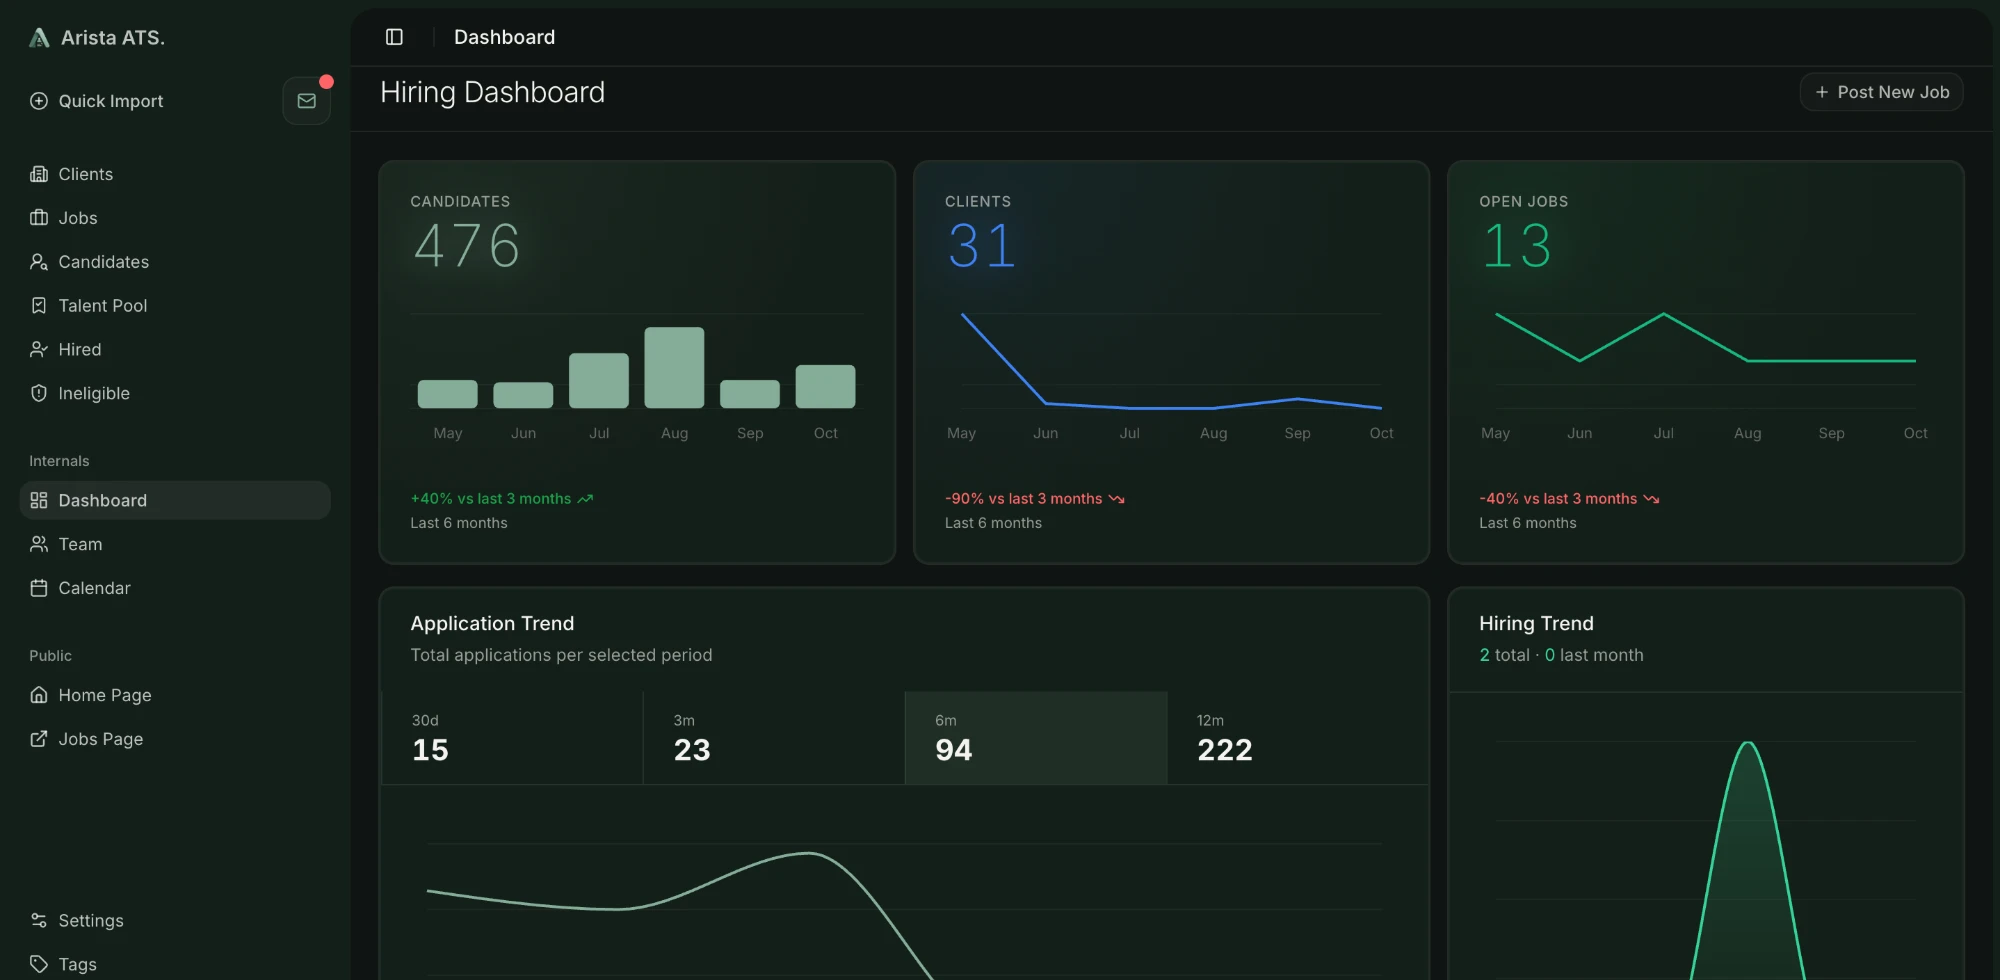
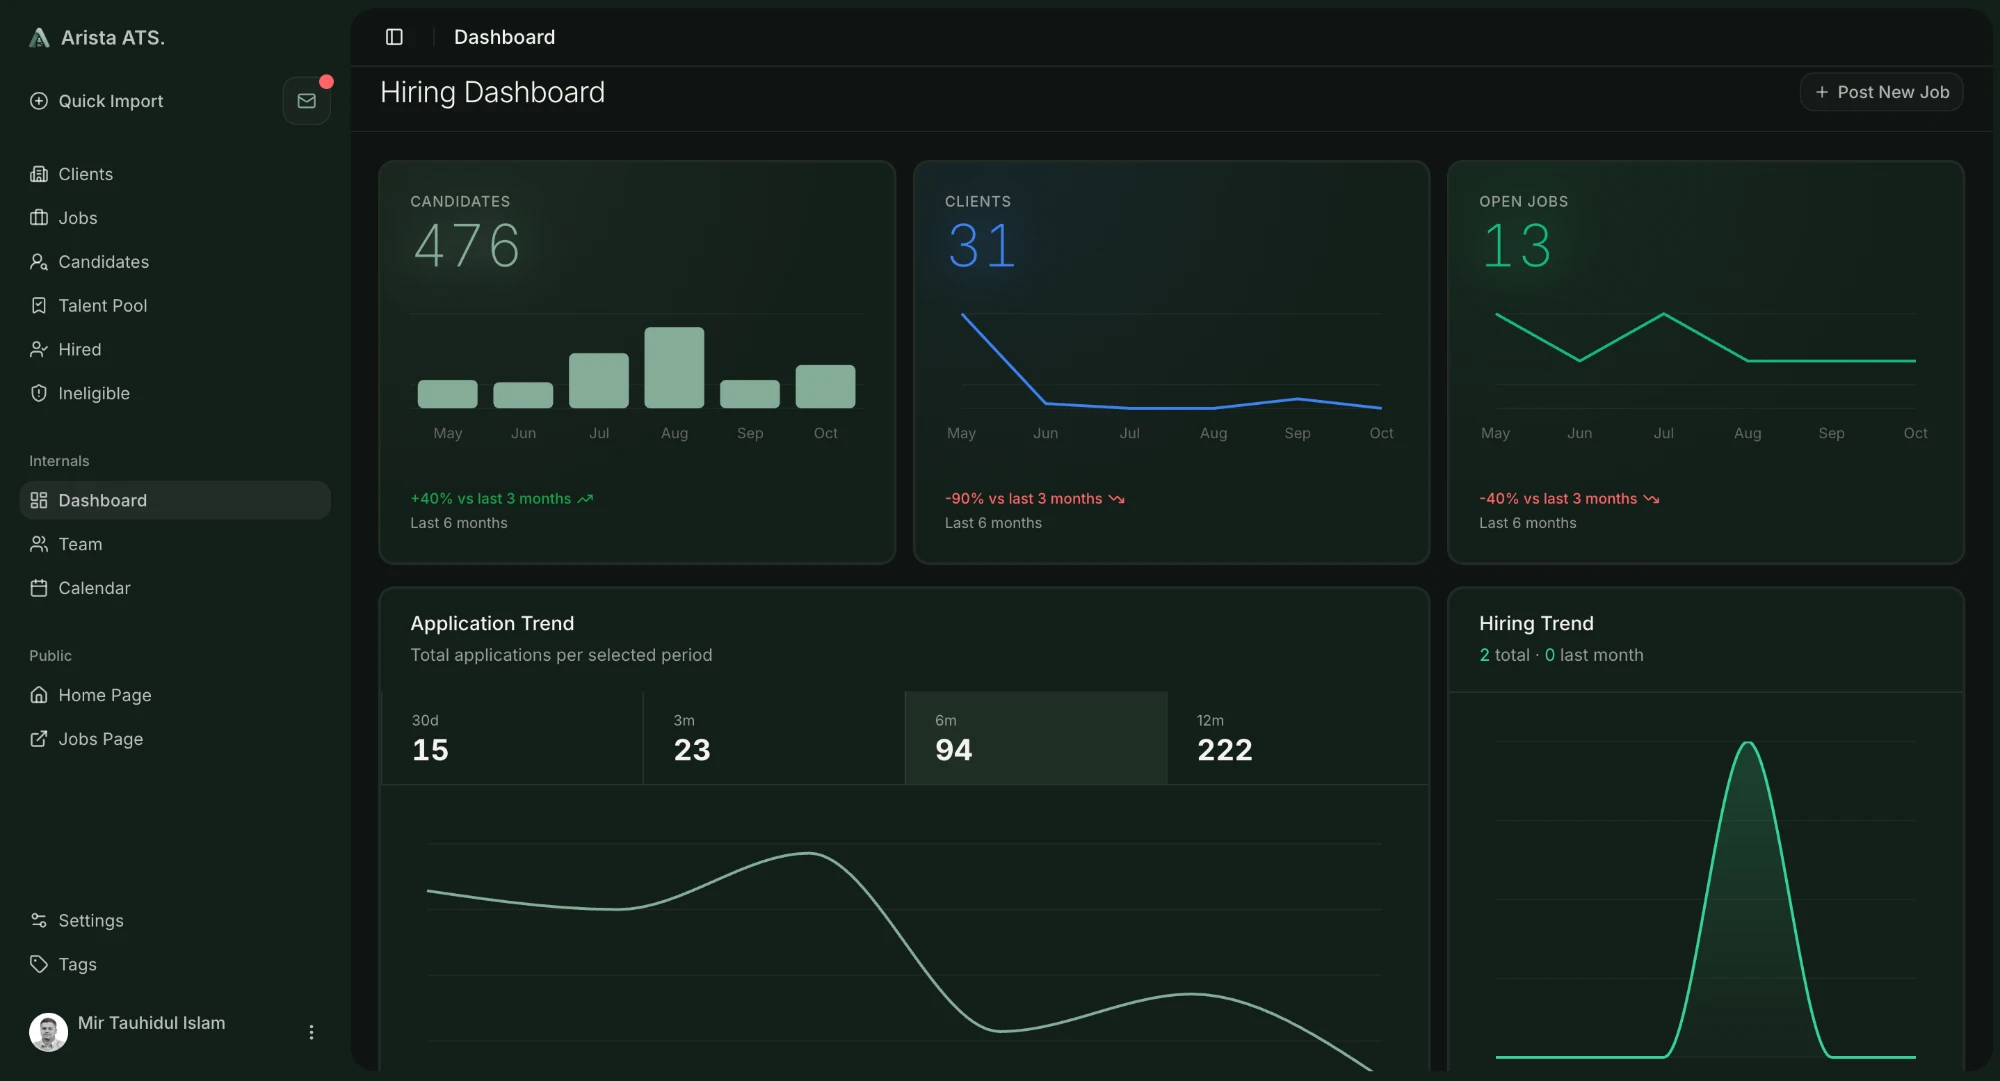
fix: show the full Arista ATS screenshot; paint out only the email line

diff --git a/src/content/projects.ts b/src/content/projects.ts
@@ -34,7 +34,7 @@ export const projects: CaseStudy[] = [
     image: {
       src: "/images/arista-ats-dashboard.png",
       width: 2000,
-      height: 980,
+      height: 1081,
       alt: "Arista ATS hiring dashboard with candidate, client and open job totals and application and hiring trend charts",
     },
   },
